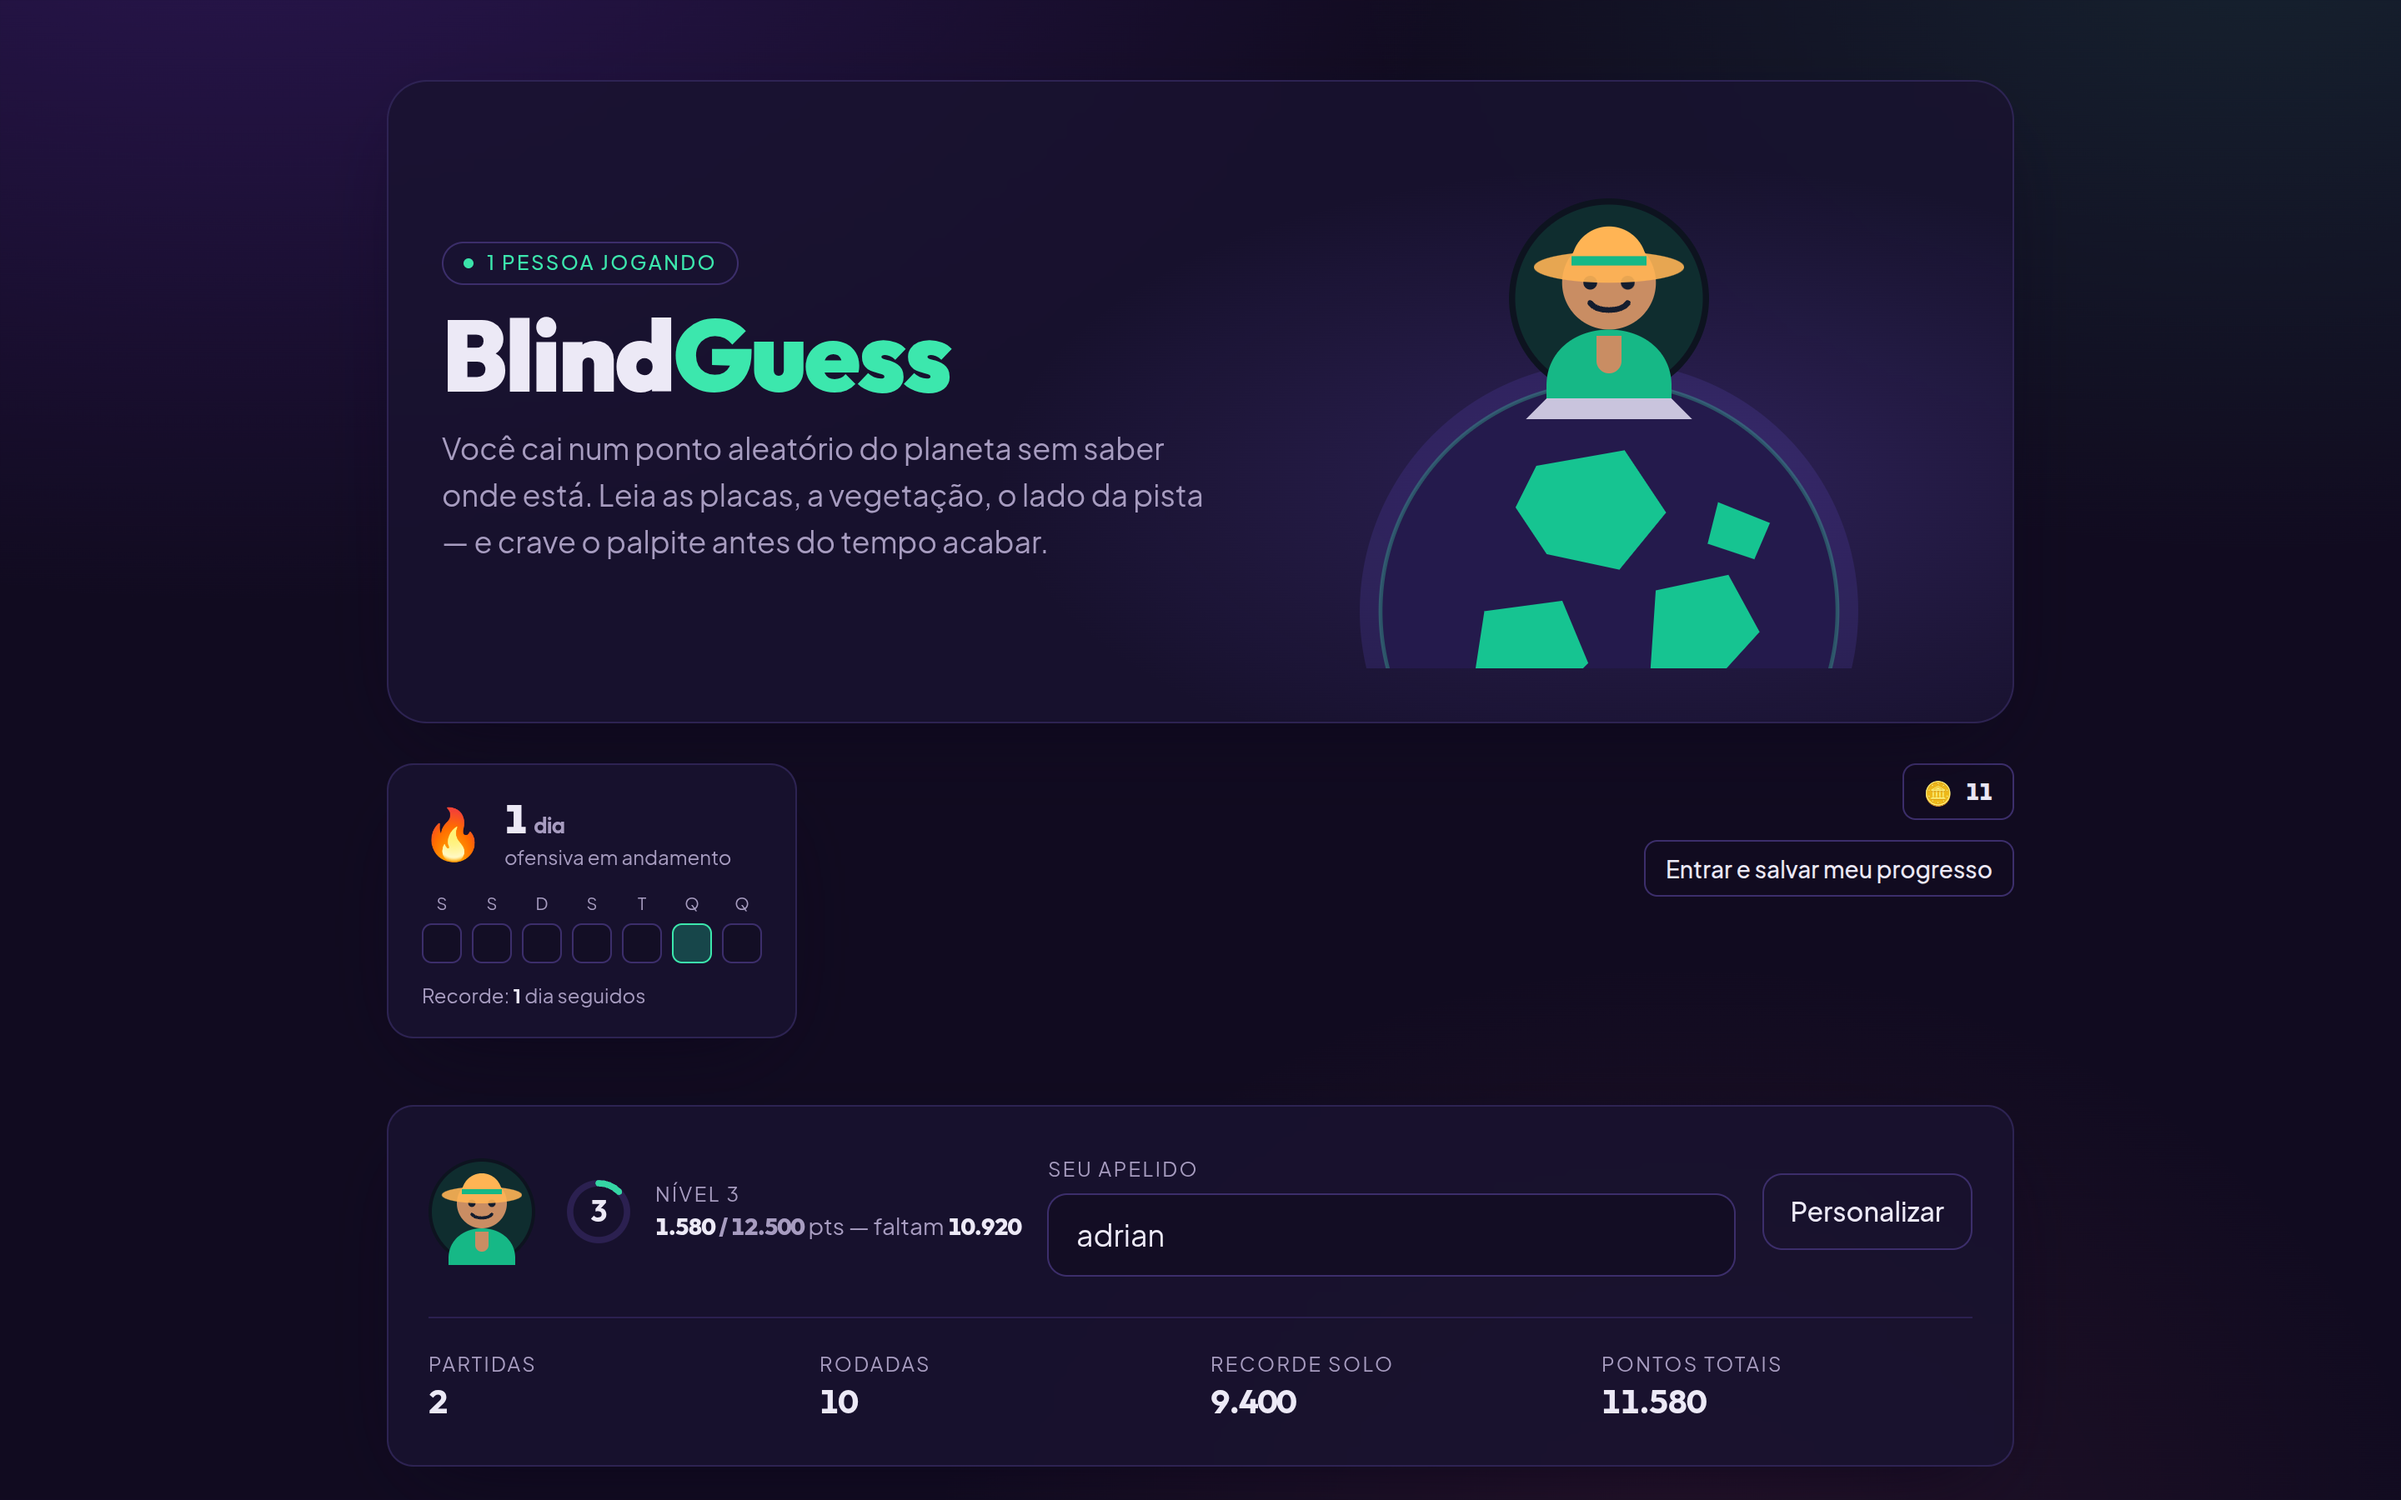
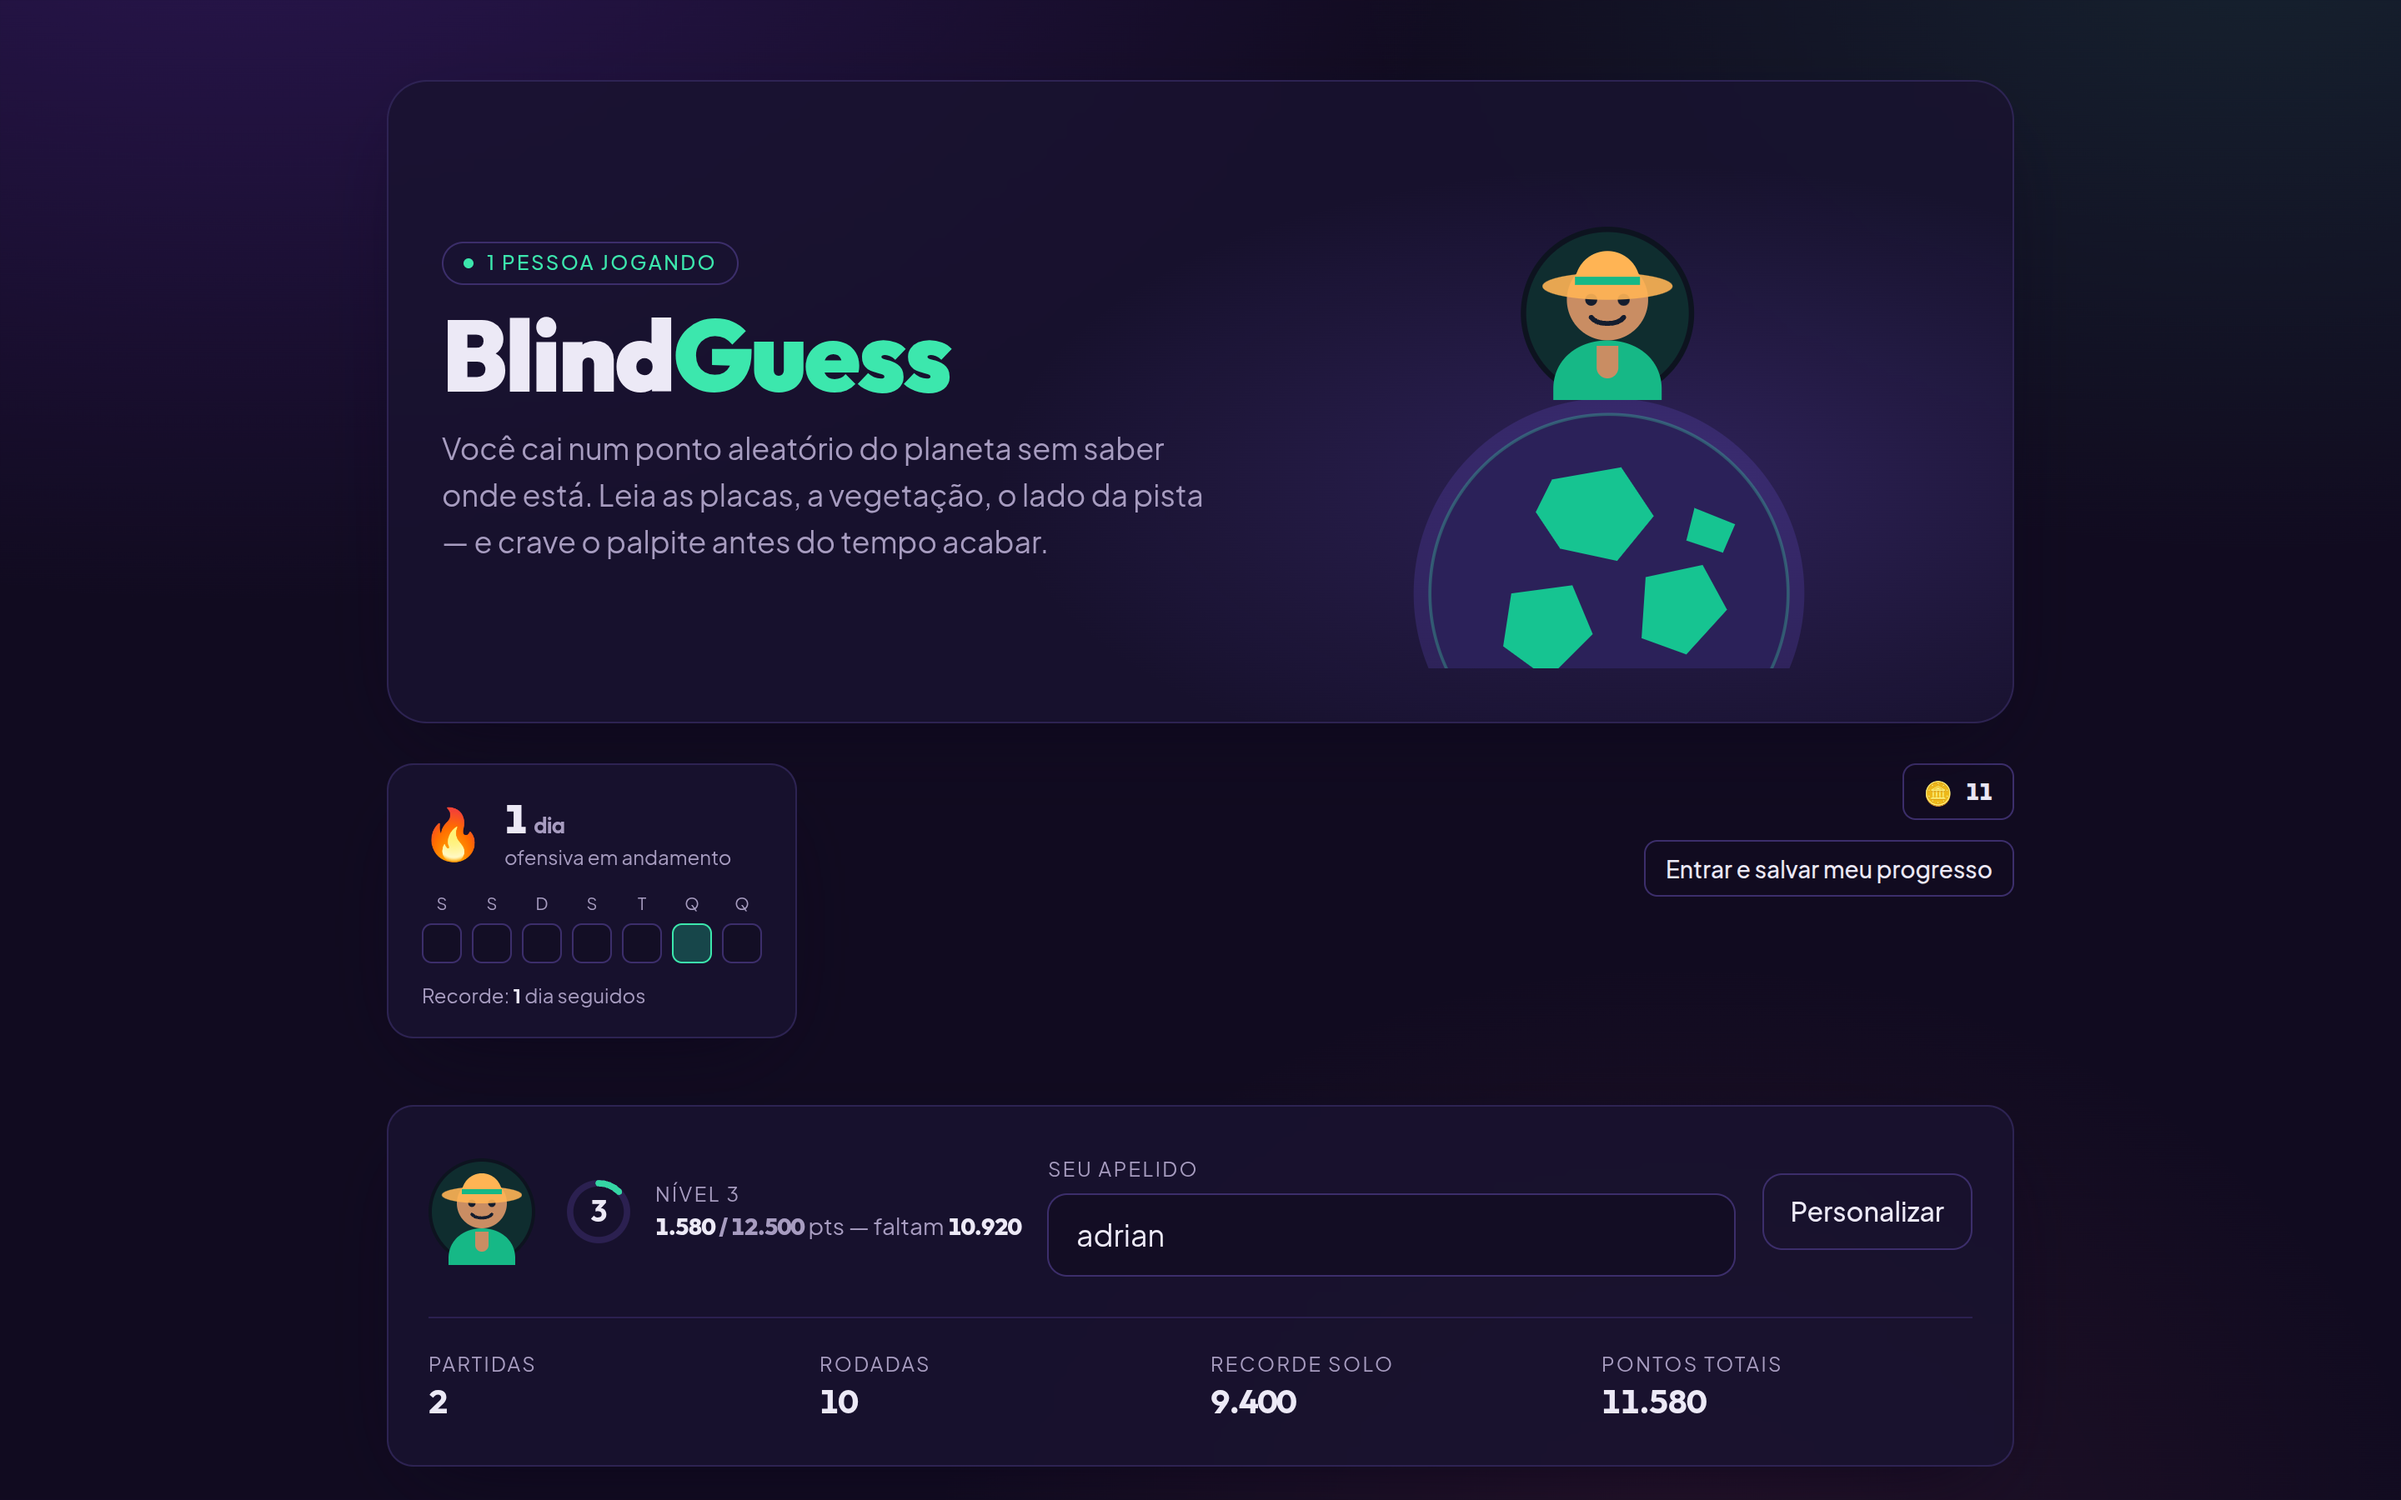
Poe o mundo 3D na tela inicial e da vida ao XP e as moedas
Fecha #10.

A home era uma lista de cartoes. Agora abre com o planeta e o personagem em
cima dele, sem que a cena atrapalhe nada: palco em coluna propria, canvas com
pointer-events desligado e altura fixa, entao a interface pinta primeiro e
nada pula quando o 3D chega — ou quando nao chega.

Globo em icosaedro com continentes empurrados para fora da propria malha,
cor chapada e flatShading, na mesma linguagem do personagem. Sem textura.

XP e moedas deixaram de so aparecer diferentes ao voltar de uma partida: o
ganho e detectado comparando com o ultimo valor visto, e vira selo, contagem
subindo no anel e uma onda saindo do planeta. Recarregar nao repete a festa.

Duas decisoes que valem registro:

- A malha da comemoracao fica sempre montada e invisivel, em vez de nascer na
  hora: material novo em cena e shader novo, e em GPU fraca isso trava a
  thread principal justo no momento da celebracao
- Um unico contexto WebGL na home, reaproveitando o mesh do personagem da #9
  em vez de duplicar

Sob prefers-reduced-motion, os valores aparecem no destino e a cena desenha um
quadro parado.

Claude-Session: https://claude.ai/code/session_01Nko3ctY1rBK7riJFu5nmqe

Changed region(s): [[0.5625, 0.1244, 0.7812, 0.4667]]

diff --git a/src/components/three/MundoCanvas.tsx b/src/components/three/MundoCanvas.tsx
@@ -205,12 +205,7 @@ function Globo({ detalhe, animando, celebra }: { detalhe: number; animando: bool
         <mesh geometry={pecas.gelo} material={materiais.gelo} scale={RAIO} />
       </group>
 
-      <Comemoracao
-        key={celebra}
-        ativa={celebra > 0 && animando}
-        terra={materiais.terra}
-        halo={materiais.halo}
-      />
+      <Comemoracao celebra={animando ? celebra : 0} terra={materiais.terra} halo={materiais.halo} />
     </group>
   );
 }
@@ -219,19 +214,29 @@ function Globo({ detalhe, animando, celebra }: { detalhe: number; animando: bool
  * O instante de nível novo: uma onda que sai do planeta e um brilho curto nos
  * continentes. Dura menos de um segundo e meio e não bloqueia nada — quem
  * quiser jogar de novo clica por cima sem esperar.
+ *
+ * A onda fica sempre montada, invisível, em vez de nascer na hora da
+ * comemoração: material novo em cena é shader novo para compilar, e em GPU
+ * fraca (ou no SwiftShader dos testes) isso trava a thread principal por
+ * segundos — justo no momento que deveria ser uma festa.
  */
 function Comemoracao({
-  ativa,
+  celebra,
   terra,
   halo,
 }: {
-  ativa: boolean;
+  celebra: number;
   terra: MeshStandardMaterial;
   halo: MeshBasicMaterial;
 }) {
   const onda = useRef<Mesh>(null);
-  const tempo = useRef(0);
+  const tempo = useRef(Number.POSITIVE_INFINITY);
   const DURACAO = 1.4;
+
+  // Cada celebração nova reinicia o relógio da onda.
+  useEffect(() => {
+    tempo.current = celebra > 0 ? 0 : Number.POSITIVE_INFINITY;
+  }, [celebra]);
 
   const geometria = useMemo(() => new RingGeometry(1, 1.05, 64), []);
   const material = useMemo(
@@ -258,21 +263,16 @@ function Comemoracao({
   );
 
   useFrame((_, delta) => {
-    if (!ativa) return;
+    if (tempo.current > DURACAO) return;
     tempo.current += delta;
     const t = Math.min(1, tempo.current / DURACAO);
     const fim = 1 - (1 - t) ** 3;
 
-    if (onda.current) {
-      const escala = RAIO * (1 + fim * 1.1);
-      onda.current.scale.setScalar(escala);
-      material.opacity = 0.75 * (1 - t) ** 1.5;
-    }
+    if (onda.current) onda.current.scale.setScalar(RAIO * (1 + fim * 1.1));
+    material.opacity = 0.75 * (1 - t) ** 1.5;
     terra.emissiveIntensity = 0.55 * Math.sin(Math.PI * t) ** 2;
     halo.opacity = 0.13 + 0.24 * Math.sin(Math.PI * t) ** 2;
   });
-
-  if (!ativa) return null;
 
   return (
     <mesh ref={onda} geometry={geometria} material={material} rotation={[-Math.PI / 2, 0, 0]} scale={RAIO} />

diff --git a/src/components/three/Mundo3D.tsx b/src/components/three/Mundo3D.tsx
@@ -70,8 +70,8 @@ function Reserva({ avatar, className }: { avatar?: AvatarType; className?: strin
         style={{
           position: "absolute",
           left: "50%",
-          bottom: "-38%",
-          width: "74%",
+          bottom: "-24%",
+          width: "58%",
           transform: "translateX(-50%)",
           aspectRatio: "1 / 1",
         }}
@@ -84,14 +84,14 @@ function Reserva({ avatar, className }: { avatar?: AvatarType; className?: strin
           style={{
             position: "absolute",
             left: "50%",
-            bottom: "38%",
-            width: "36%",
-            maxWidth: 150,
+            bottom: "42%",
+            width: "28%",
+            maxWidth: 118,
             transform: "translateX(-50%)",
             aspectRatio: "3 / 4",
           }}
         >
-          <Personagem3D avatar={avatar} tamanhoReserva={120} />
+          <Personagem3D avatar={avatar} tamanhoReserva={104} />
         </div>
       )}
     </div>
@@ -106,8 +106,8 @@ function Reserva({ avatar, className }: { avatar?: AvatarType; className?: strin
 function GloboSVG() {
   return (
     <svg viewBox="0 0 200 200" width="100%" height="100%" role="presentation">
-      <circle cx="100" cy="100" r="96" fill="#7c5cf0" opacity="0.14" />
-      <circle cx="100" cy="100" r="88" fill="#241a4c" />
+      <circle cx="100" cy="100" r="96" fill="#7c5cf0" opacity="0.18" />
+      <circle cx="100" cy="100" r="88" fill="#2b2159" />
       <g fill="#16c491">
         <polygon points="72,44 106,38 122,62 104,84 76,78 64,60" />
         <polygon points="118,92 146,86 158,108 138,130 116,122" />
@@ -115,8 +115,8 @@ function GloboSVG() {
         <polygon points="96,140 124,144 118,166 92,164" />
         <polygon points="142,58 162,66 156,80 138,74" />
       </g>
+      {/* Só a calota do sul: a do norte ficaria atrás do personagem. */}
       <g fill="#e6e2f7" opacity="0.85">
-        <polygon points="78,16 122,16 132,26 68,26" />
         <polygon points="84,182 118,182 124,174 78,174" />
       </g>
       <circle cx="100" cy="100" r="88" fill="none" stroke="#3ce7ad" strokeOpacity="0.28" strokeWidth="1.5" />

diff --git a/src/app/page.tsx b/src/app/page.tsx
@@ -226,7 +226,8 @@ export default function HomePage() {
                 celebra={ganho?.subiuDeNivel ? ganho.id : 0}
                 className="absolute inset-0"
               />
-              <AvisosDeGanho ganho={ganho} className="absolute top-0 right-0" />
+              {/* z-10: o canvas da cena ocupa a mesma caixa e pintaria por cima. */}
+              <AvisosDeGanho ganho={ganho} className="absolute top-0 right-0 z-10" />
             </div>
           </div>
         </section>
